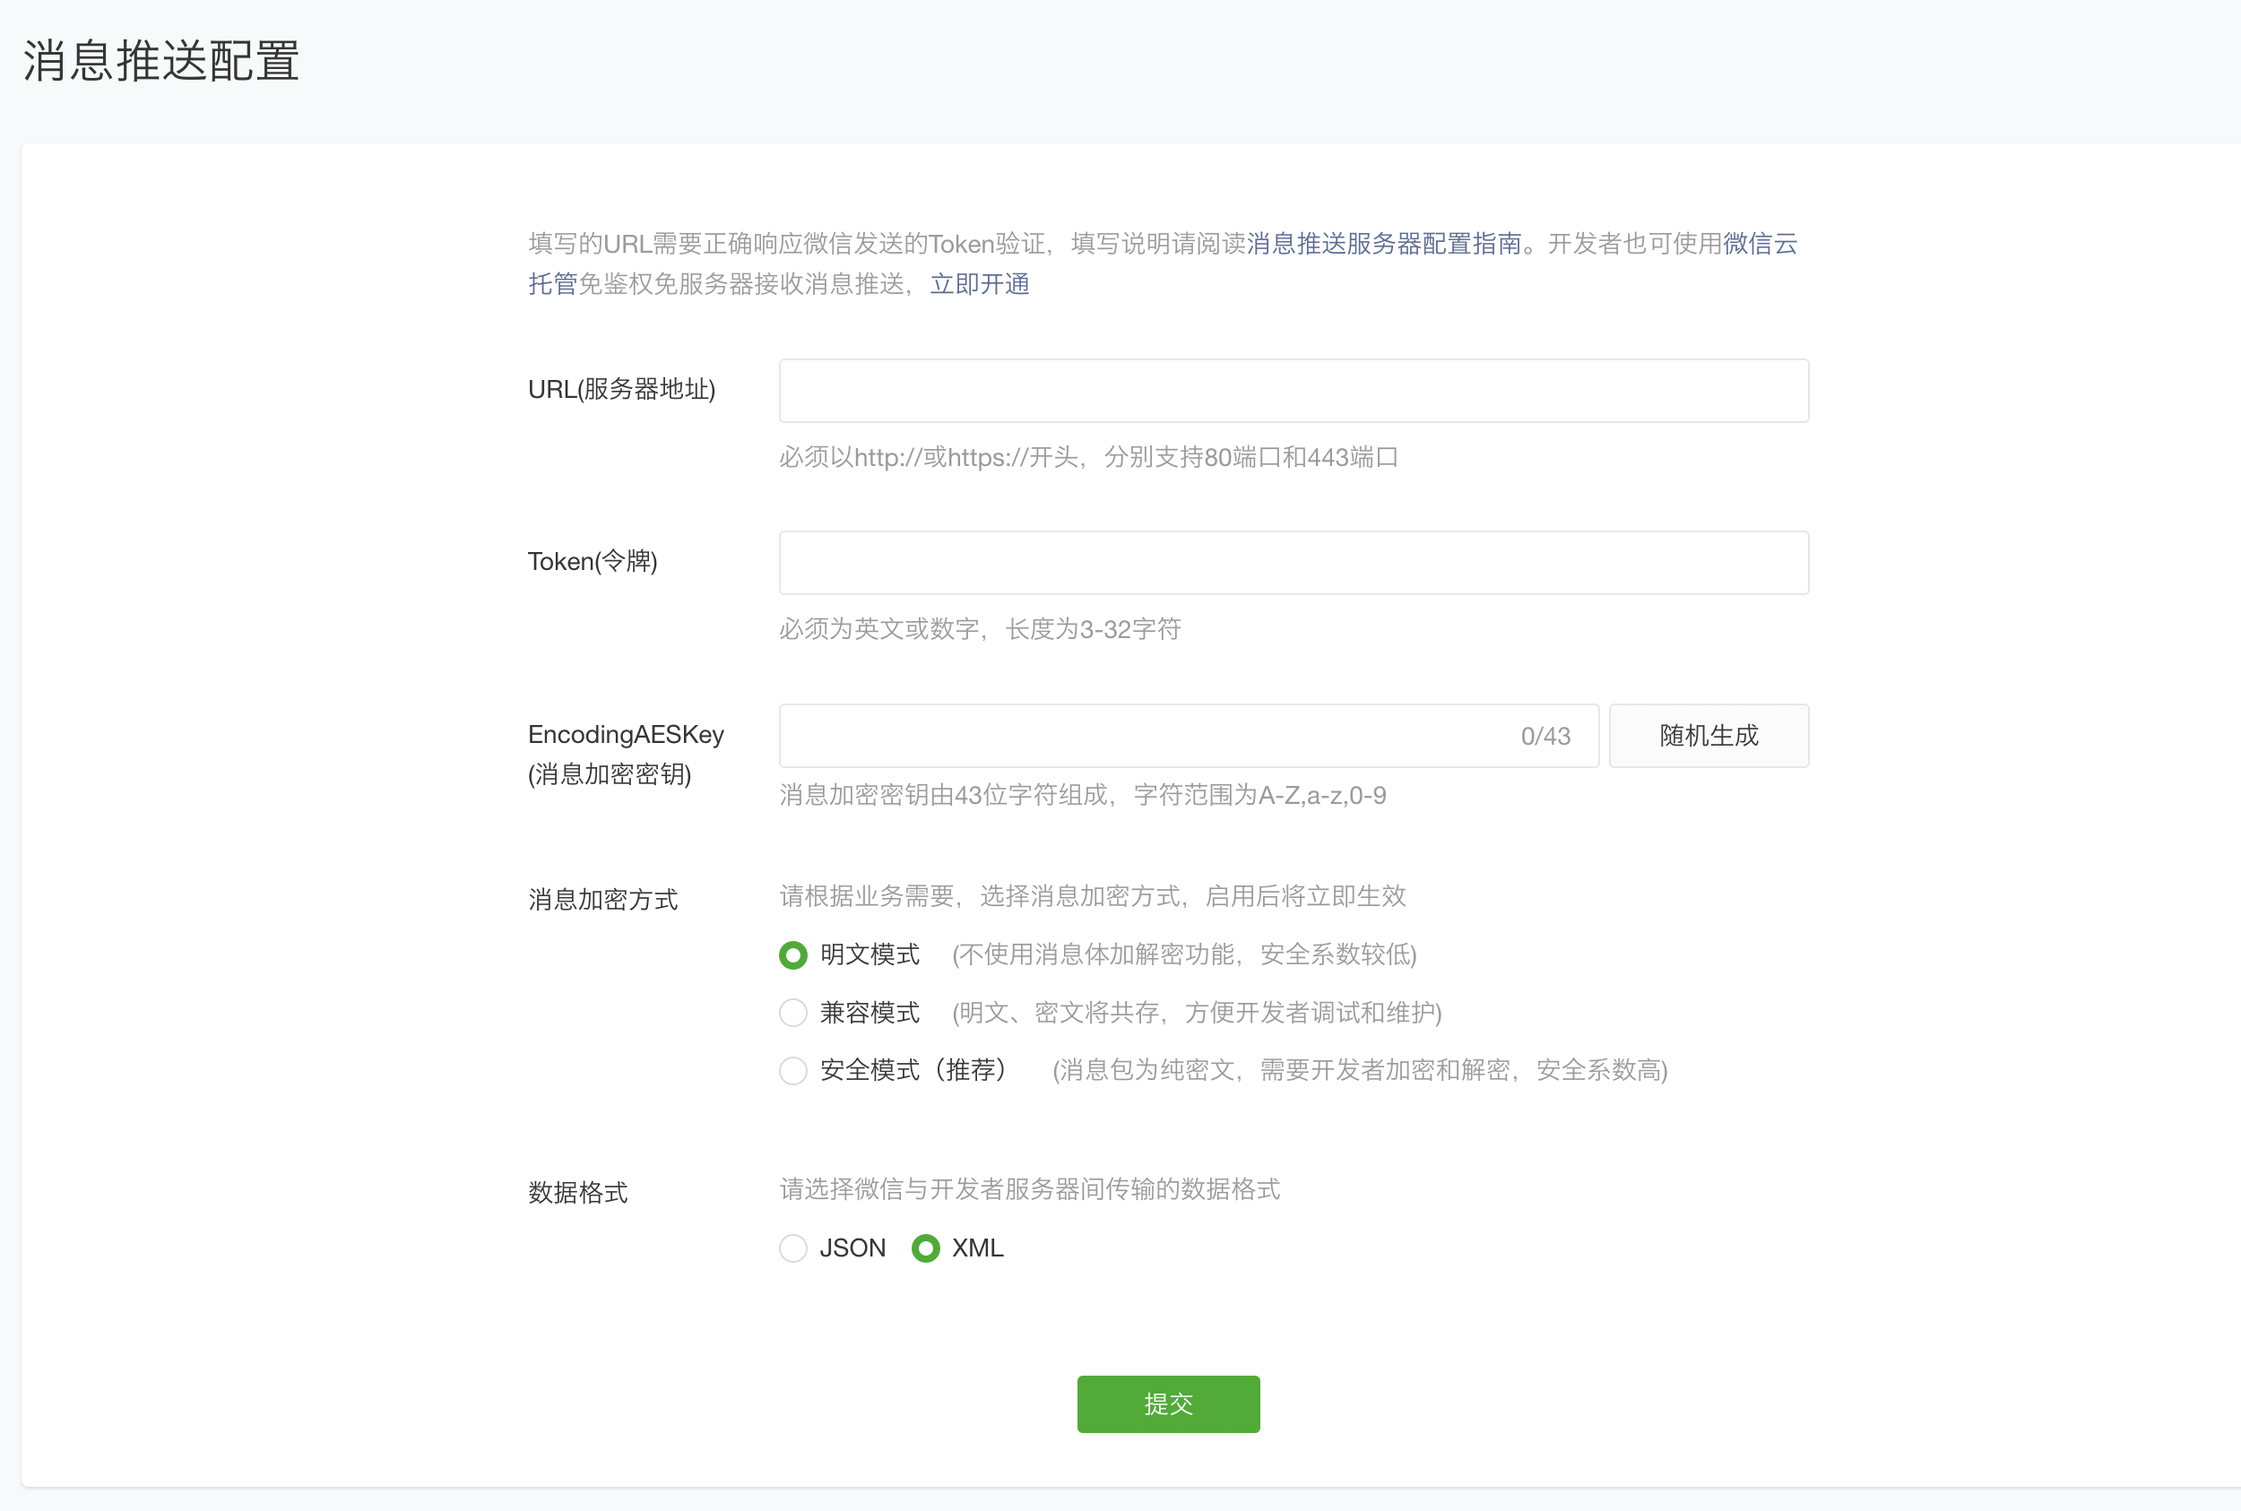
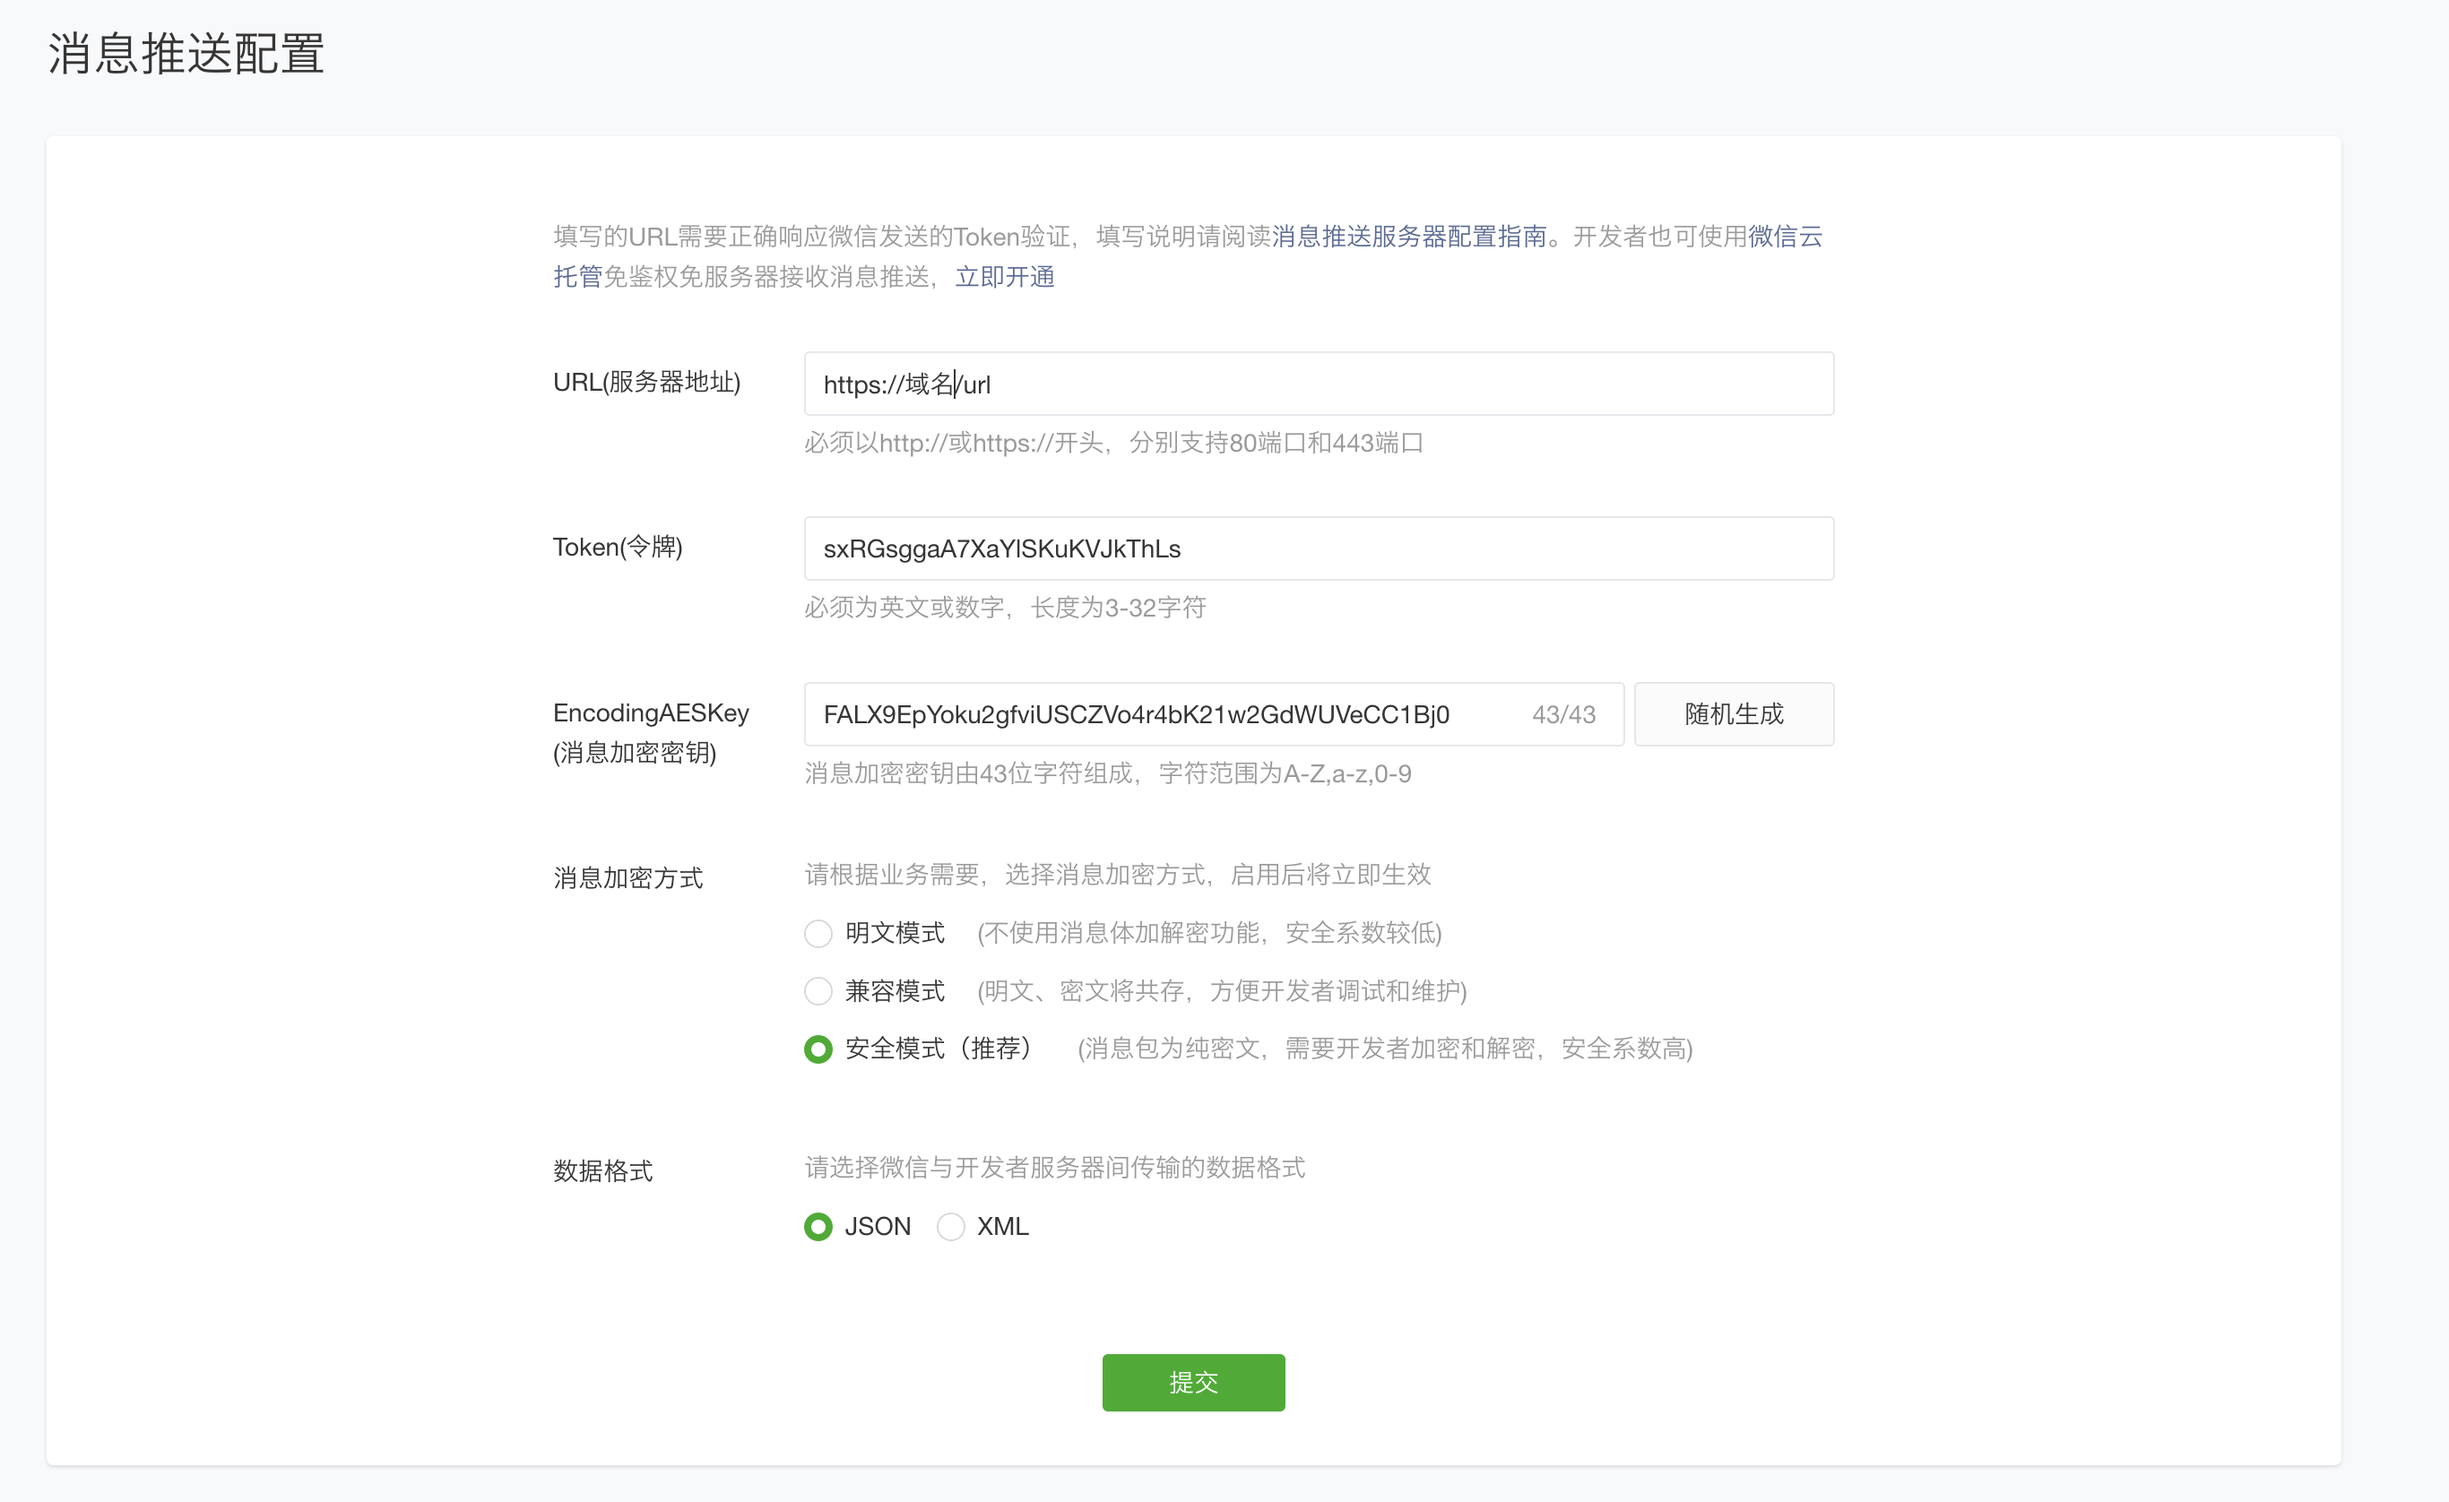
update

diff --git a/Blog/微信小程序跳转H5、App、小程序的方式.md b/Blog/微信小程序跳转H5、App、小程序的方式.md
@@ -4,39 +4,19 @@
 > 在业务中接触了微信小程序，客户对引流用户非常在意，每次都会提该需求，经常做就存档一下。前提使用的小程序账户都是企业版非个人版本。
 
 
-## 跳转App
-2021.5月开始小程序不再支持跳转到App，那要怎么跳转App呢，看了一下腾讯视频的小程序是利用客服消息发送App下载地址，感觉此方法体验甚好，就参考了很多文档实测了一下。
-
-
-### 消息推送
-
-#### 启用
-首先要开始微信的消息推送功能，在`微信公众平台-小程序后台-开发管理-消息推送`，选择启用，这个部分需要管理员或开发者进行扫码确认。
-
-#### 配置
-
-`开发者服务器接收消息推送`需要创建一个服务器端，这里使用的是 Node
-
-![消息推送配置](https://github.com/lulu-s/lulu-book/blob/master/assets/%E5%A4%B4%E5%83%8F.jpg "消息推送配置")
-
-
-
-### 参考文档
-* [官方消息推送配置指南](https://developers.weixin.qq.com/miniprogram/dev/framework/server-ability/message-push.html)
-* [关于不再提供“小程序打开App技术服务”的通知](https://developers.weixin.qq.com/community/develop/doc/000c04d94c0588744a2cf4d9c5bc09)
-
-
-
-
+<br/>
 
 ## 跳转H5
-* 在微信公众平台-小程序后台配置业务域名，要将校验文件放置到域名根目录下，才可配置成功，通过 `https://url/校验文件名.txt` 可测试成功与否。
-* 使用 [webview](https://developers.weixin.qq.com/miniprogram/dev/component/web-view.html) 配置路径
-* 如需传参通过 `?key=value` 形式一起传输，在另一端接收 URL 上的参数便可。
+1. 在微信公众平台-小程序后台配置业务域名，要将校验文件放置到域名根目录下，才可配置成功，通过 `https://url/校验文件名.txt` 可测试成功与否。
+2. 使用 [web-view](https://developers.weixin.qq.com/miniprogram/dev/component/web-view.html) 配置路径
+3. 如需传参通过 `?key=value` 形式一起传输，在另一端接收 URL 上的参数便可。
 ```
 <web-view :src="`https://soss-apps.emerge.ltd/apps/horizon-miniapp-copy/index.html#/?timestamp=${timestamp}`" />
 ```
 
+
+
+<br/>
 
 ## 跳转小程序
 * 通过 [wx.navigateToMiniProgram](https://developers.weixin.qq.com/minigame/dev/api/navigate/wx.navigateToMiniProgram.html)
@@ -56,3 +36,239 @@ Taro.navigateToMiniProgram({ // 我用的taro，原生用 wx.navigateToMiniProgr
 
 
 
+<br/>
+
+## 跳转App
+2021.5月开始小程序不再支持跳转到App，那要怎么跳转App呢，看了一下腾讯视频的小程序是利用客服消息发送App下载地址，感觉此方法体验甚好，就参考了很多文档实测了一下。
+
+
+### 消息推送配置 
+
+> 👉 [消息推送配置指南](https://developers.weixin.qq.com/miniprogram/dev/framework/server-ability/message-push.html) 介绍的很清楚，也可以只看这个。
+
+
+![消息推送配置](https://github.com/lulu-s/lulu-book/blob/master/Blog/wechat/%E6%B6%88%E6%81%AF%E6%8E%A8%E9%80%81%E9%85%8D%E7%BD%AE.png)
+
+首先要开始微信的消息推送功能，在**微信公众平台-小程序后台-开发管理-消息推送**，选择启用，这个部分需要管理员或开发者进行扫码确认。
+
+确认成功会跳转到配置页面，按需求配置即可，这里选择了安全模式 + JSON。域名填写你自己的就好。
+
+
+![消息推送配置.png](https://p1-juejin.byteimg.com/tos-cn-i-k3u1fbpfcp/50e836f9fc1b412fb8260de8d2e472c9~tplv-k3u1fbpfcp-watermark.image?)
+
+
+### Token验证
+
+微信服务器将发送 **GET** 请求到填写的服务器地址 URL 上，进行 **Token** 验证，所以要先新建好服务器并上线。<br/>
+
+👇 该图是关于返回的参数 + 如何创建 GET 请求
+
+
+![get方法.png](https://p6-juejin.byteimg.com/tos-cn-i-k3u1fbpfcp/34189535293d4ff1a312629510f50cf1~tplv-k3u1fbpfcp-watermark.image?)
+
+**main.mjs** 根据设定好的要求，按步骤创建get方法用于接收get请求。这里使用了ES6，需要对 **package.json** 增加 `"type": "module"`。
+
+```js
+
+import express from "express";
+import request from "request"
+import cors from "cors";
+import bodyparser from "body-parser";
+import CryptoJS from "crypto-js";
+var app = express();
+app.use(cors({ origin: "*" }));
+app.use(bodyparser.json());
+
+var config = {
+    token: 'sxRGsggaA7XaYlSKuKVJkThLs', // 和配置消息推送的token一致
+    content: "下载腾讯视频App，享受更多播放特权，请戳→http://m.v.qq.com/activity/downapp_activity.html", // 借用腾讯下载app的链接，做的demo
+    EncodingAESKey: "你的EncodingAESKey",
+    APPID: "你的APPID",
+    APPSECRET: "你的APPSECRET",
+    access_token: ""
+}
+
+app.get("/url", (req, res) => {
+    console.log(req.query);
+    var signature = req.query.signature;
+    var timestamp = req.query.timestamp;
+    var nonce = req.query.nonce;
+    var echostr = req.query.echostr;
+    var ciphertext = CryptoJS.SHA1([config.token, timestamp, nonce].sort().join(''));
+    if (signature == ciphertext.toString()) {
+        res.send(echostr);
+    } else {
+        res.send({
+            status: 400,
+            data: "check msg error"
+        });
+    }
+});
+app.listen(process.env.PORT)
+```
+接下来就可以点提交键啦～～，成功配置后会跳转回到开发配置页面，此时你的相关配置就在这能查看到。
+![消息推送完成](https://github.com/lulu-s/lulu-book/blob/master/Blog/wechat/%E6%B6%88%E6%81%AF%E6%8E%A8%E9%80%81%E5%AE%8C%E6%88%90.png)
+
+
+### 小程序跳转客服消息
+👉 参考微信组件 [button](https://developers.weixin.qq.com/miniprogram/dev/component/button.html)
+```js
+<button open-type="contact">前方客服会话获取下载链接</button>
+```
+
+
+
+### 配置AccessToken（非安全模式不需要这部）
+👉 参考微信接口 [getAccessToken](https://developers.weixin.qq.com/miniprogram/dev/api-backend/open-api/access-token/auth.getAccessToken.html)
+
+**main.mjs**
+```js
+function get_access_token() {
+    return new Promise((resolve, reject) => {
+        request(`https://api.weixin.qq.com/cgi-bin/token?grant_type=client_credential&appid=${config.APPID}&secret=${config.APPSECRET}`, { json: true }, (err, res, body) => {
+            if (err) {
+                reject(err)
+            } else {
+                resolve(body)
+            }
+        });
+    })
+}
+
+var out_time = 7100 * 1000
+var last_time = 0;
+
+async function get_token() {
+    if (Date.now() - out_time > last_time) {
+        var cur = await get_access_token()
+        config.access_token = cur.access_token;
+        last_time = Date.now();
+
+        console.log('当前token：', config.access_token)
+        console.log('过期时间：', new Date(last_time + out_time).toString(), '+8小时'); // 在服务器部署的是UTC时间，和北京时间差8小时。。
+    }
+    return config.access_token;
+}
+setInterval(get_token, 5000)
+get_token();
+
+```
+
+
+### 配置客服自动回复
+
+> 如非安全模式，参考 👉 [消息推送回复](https://developers.weixin.qq.com/miniprogram/dev/wxcloudrun/src/development/weixin/callback.html#%E4%BA%8C%E3%80%81%E4%B8%BB%E5%8A%A8%E5%9B%9E%E5%A4%8D) 就行内部代码很详细。
+
+
+
+配置选择安全模式的话，需要对接收信息进行解密。 以下为
+**wx-crypto.mjs** 解密模块
+```js
+import crypto from 'crypto'; // 加密模块
+
+function decodePKCS7(buff) {
+    let pad = buff[buff.length - 1];
+    if (pad < 1 || pad > 32) {
+        pad = 0;
+    }
+    return buff.slice(0, buff.length - pad);
+};
+
+// 微信转发客服消息解密
+function decryptContact(key, iv, crypted) {
+    const aesCipher = crypto.createDecipheriv('aes-256-cbc', key, iv);
+    aesCipher.setAutoPadding(false);
+    let decipheredBuff = Buffer.concat([aesCipher.update(crypted, 'base64'), aesCipher.final()]);
+    decipheredBuff = decodePKCS7(decipheredBuff);
+    const lenNetOrderCorpid = decipheredBuff.slice(16);
+    const msgLen = lenNetOrderCorpid.slice(0, 4).readUInt32BE(0);
+    const result = lenNetOrderCorpid.slice(4, msgLen + 4).toString();
+    return result;
+};
+
+// 解密微信返回给配置的消息服务器的信息
+function decryptWXContact(wechatData, EncodingAESKey) {
+    if (!wechatData) {
+        wechatData = '';
+    }
+    //EncodingAESKey 为后台配置时随机生成的
+    const key = Buffer.from(EncodingAESKey + '=', 'base64');
+    const iv = key.slice(0, 16);
+    const result = decryptContact(key, iv, wechatData);
+    const decryptedResult = JSON.parse(result);
+    console.log(decryptedResult);
+    return decryptedResult;
+};
+
+export {decryptWXContact}
+```
+
+
+**main.mjs** post方法，接收信息解密 + 返回消息。
+```js
+import { decryptWXContact } from "./wx-crypto.mjs"
+app.post("/url", async (req, res) => {
+    const { ToUserName, Encrypt } = req.body // ToUserName 推送接收的账号
+    
+    if (!Encrypt) return res.send('success'); //配置时选的安全模式 因此需要解密
+
+    const decryptData = decryptWXContact(Encrypt, config.EncodingAESKey);
+    if (!decryptData) return res.send('success');
+
+    if (decryptData.MsgType == 'text') {
+        await sendmess(config.access_token, {
+            access_token: config.access_token,
+            touser: decryptData.FromUserName,
+            msgtype: 'text',
+            text: {
+                content: decryptData.Content == '下载' ? config.content || '' : '感谢您关注xxx小程序'
+            },
+            image: {},
+            link: {},
+            miniprogrampage: {}
+        })
+    }
+    res.send('success') // 不进行任何回复，直接返回success，告知微信服务器已经正常收到。
+});
+
+function sendmess(access_token, mess) {
+    return new Promise((resolve, reject) => {
+        var options = {
+            'method': 'POST',
+            'url': `https://api.weixin.qq.com/cgi-bin/message/custom/send?access_token=${config.access_token}`,
+            'headers': {
+                'Content-Type': 'application/json'
+            },
+            body: JSON.stringify({
+                "access_token": `${config.access_token}`,
+                ...mess
+            })
+        }
+        request(options, function (error, response) {
+            if (error) reject(error);
+            resolve(response.body)
+        });
+    })
+}
+```
+
+
+
+
+<br/>
+
+
+
+## 参考文档
+* [微信公众平台接口调试工具](https://mp.weixin.qq.com/debug)
+* [关于不再提供“小程序打开App技术服务”的通知](https://developers.weixin.qq.com/community/develop/doc/000c04d94c0588744a2cf4d9c5bc09)
+* [小程序打怪之在线客服自动回复功能(node版)](https://juejin.cn/post/6844903864324325389)
+* [node.js微信小程序配置消息推送](https://www.cnblogs.com/z937741304/p/10364874.html)
+* [个人node代码块](https://github.com/lulu-s/lulu-book/blob/master/Note/code.md#Node)
+
+
+
+
+____________________
+欢迎指点和讨论👏 
+我的全部输出 👉 [github](https://github.com/lulu-s/lulu-book)

diff --git a/README.md b/README.md
@@ -9,24 +9,27 @@
 <br/>
 
 
-## 🎨 Shader 学习系列
-  * [利用 shader 实现旗帜飘荡](https://github.com/lulu-s/lulu-book/blob/master/Shader/flag.md)
-<br/>
-
-
 
 ## 📐 Blog
-  * [微信小程序跳转App、H5、小程序](https://github.com/lulu-s/lulu-book/blob/master/Blog/微信小程序跳转H5、App、小程序的方式.md)
+  <!-- * [了解ES6、ES7、ES8、ES9、ES10、ES11、ES12新特性](https://github.com/lulu-s/lulu-book/blob/master/Grammer/es.md) -->
+  * [微信小程序跳转App、H5、小程序](https://github.com/lulu-s/lulu-book/blob/master/Blog/%E5%BE%AE%E4%BF%A1%E5%B0%8F%E7%A8%8B%E5%BA%8F%E8%B7%B3%E8%BD%ACH5%E3%80%81App%E3%80%81%E5%B0%8F%E7%A8%8B%E5%BA%8F%E7%9A%84%E6%96%B9%E5%BC%8F.md)
   * [模型转换 USDZ 的 N 种方法，ios 端测试 USDZ 的 AR 体验](https://github.com/lulu-s/lulu-book/blob/master/Blog/model%20convert%20usdz.md)
   * [树莓派调试jauns(包含https证书配置)](https://github.com/lulu-s/lulu-book/blob/master/Blog/pi.md) 
   
 <br/>
 
+
+
+## 🎨 Shader 学习系列
+  * [利用 shader 实现旗帜飘荡](https://github.com/lulu-s/lulu-book/blob/master/Shader/flag.md)
+<br/>
+
+
 ## 🍀 Grammer
   * [FFmpeg 进修 + 常用命令](https://github.com/lulu-s/lulu-book/blob/master/Grammer/ffmpeg.md)
   * [Mac / DOS / Linux 命令行](https://github.com/lulu-s/lulu-book/blob/master/Grammer/command.md)
   * [Markdown 语法](https://github.com/lulu-s/lulu-book/blob/master/Grammer/markdown%20grammar.md)
-  <!-- * [了解ES6、ES7、ES8、ES9、ES10、ES11、ES12新特性](https://github.com/lulu-s/lulu-book/blob/master/Grammer/es.md) -->
+  
   
 <br/>
 
